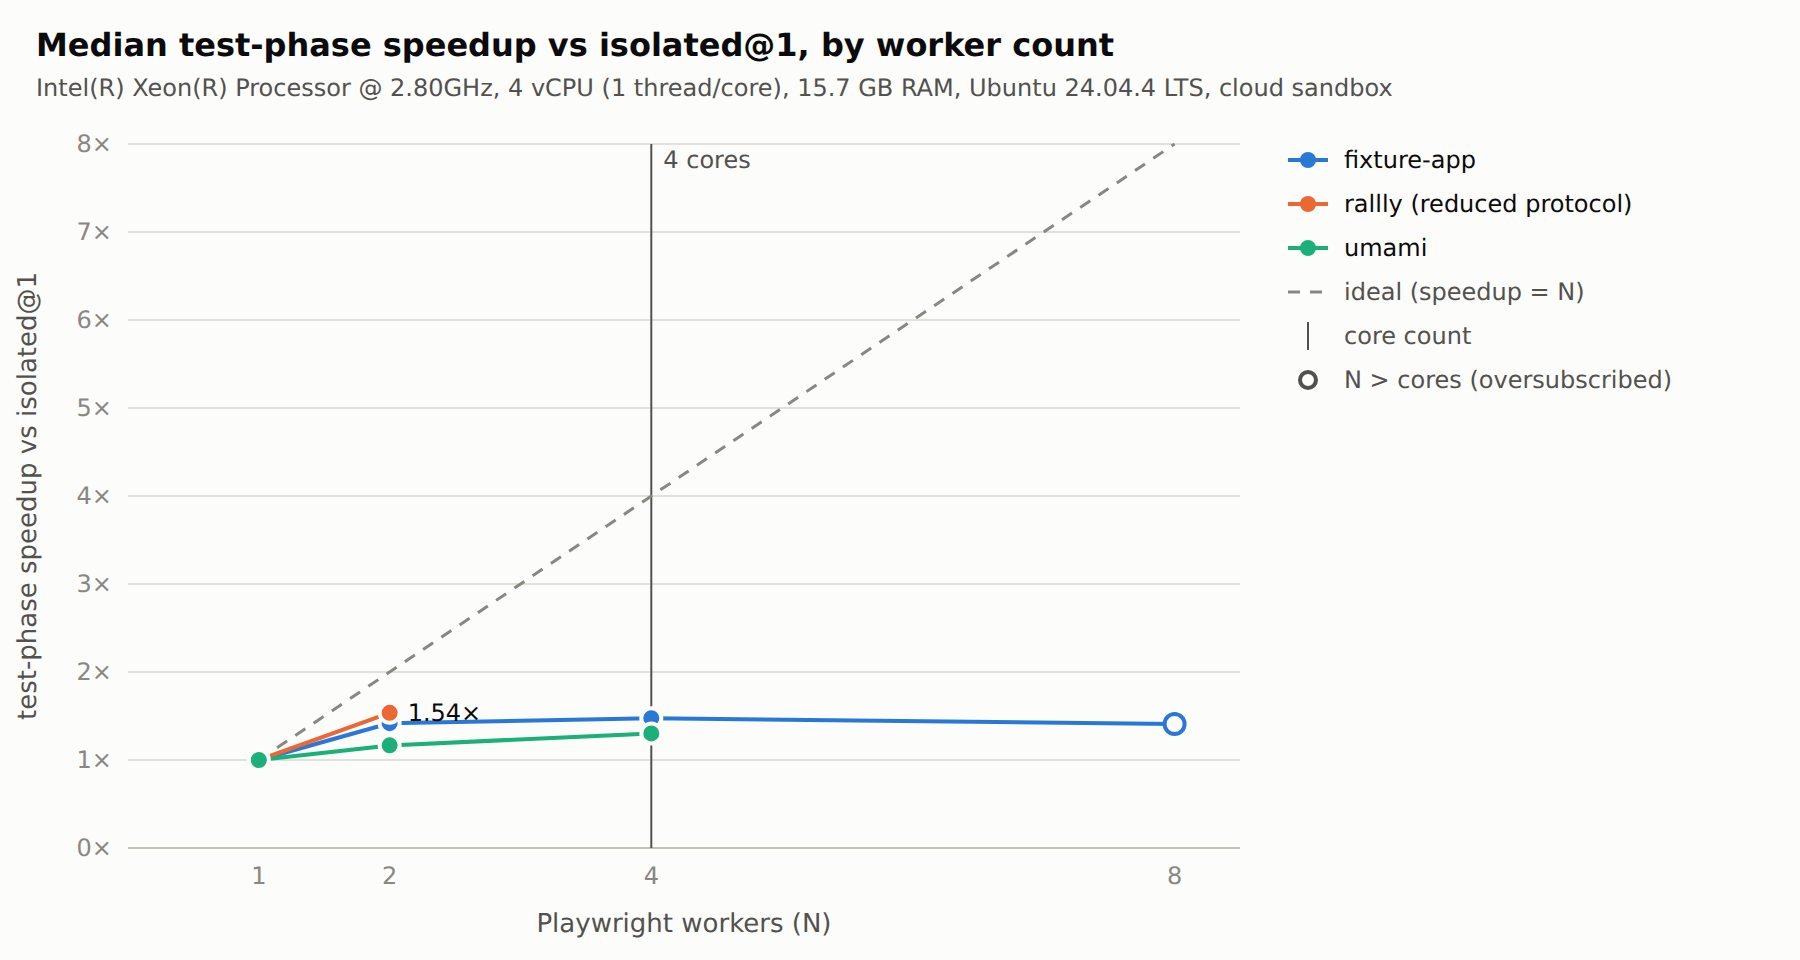
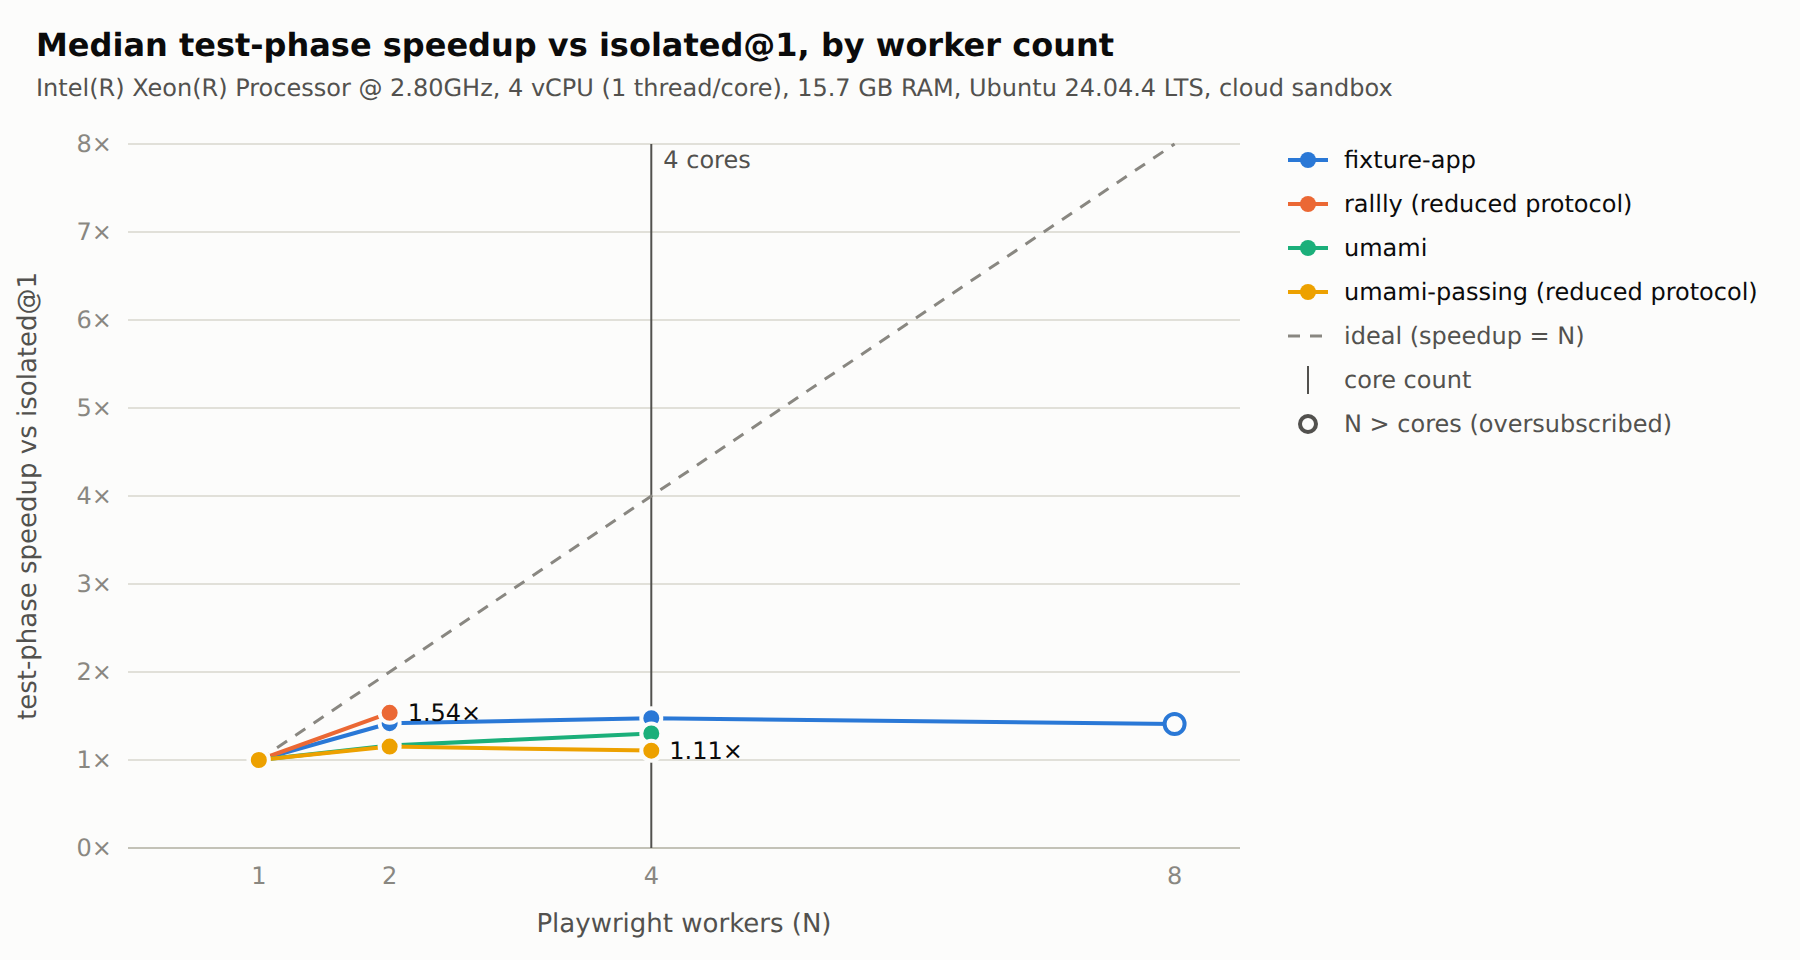
docs: report umami's passing-subset re-timing as the verdict number

diff --git a/RESULTS.md b/RESULTS.md
@@ -9,7 +9,7 @@ Every number cites a committed file under `data/results/` or `experiments/recipe
   - rallly's runs share one mailpit.
   - umami's run reports also carry the "isolation incomplete" label. The tool's scan found ClickHouse, Kafka and Redis clients in its dependencies. umami uses them only when their URLs are set, and none were.
   - So, literally, no real repo qualifies.
-- **Most important number:** counting umami anyway (a post-hoc reading, logged in LOG.md at 17:04 UTC), its test-phase speedup at N=4 is **1.30x on the full browser suite**. _Its re-timing on the common passing subset, which the protocol requires because 7 stale tests wait out 30 s timeouts, is below._
+- **Most important number:** counting umami anyway (a post-hoc reading, logged in LOG.md at 17:04 UTC), its test-phase speedup at N=4 on the common passing subset, the re-timing the protocol requires, is **1.11x** (`data/results/umami-passing/`). On the full browser suite it is 1.30x, but 90 of that suite's 111 s of serial test time are three stale tests waiting out 30 s timeouts.
 - **Context, not verdict evidence:**
   - The fixture (never pooled): 1.48x at N=4.
   - rallly: 1.54x at N=2, which is 0.77 of the 2x possible at N=2.
@@ -104,10 +104,24 @@ Source: `data/results/fixture-app/experiment-a.json` (37 runs, all valid; every 
 | **isolated@4** | **100.3 s [100.2-101.3]** | **1.30** | 1.23 | 4.00 | 113.3 s |
 
 - **Zero isolation failures.** The same 7 stale tests (tests CI does not run and that no longer match the app) fail in every arm, the baseline included, and pass in none. Every other test passes in every run.
-- **The ceiling is file granularity, not CPU.** `tests/e2e/website.spec.ts` holds 3 serial tests that take 90 of the 111 s summed test time, so no worker count can beat about 1.23x without splitting that file. The measured 1.30x is slightly above that ceiling because the long file ran a little faster at N=4 than at N=1. One worker slot uses only 0.59 cores.
+- **The full-suite number mostly measures stale tests timing out.** `tests/e2e/website.spec.ts` holds 3 of the 7 stale tests; each waits out Playwright's 30 s timeout, so the file takes 90 of the 111 s summed test time in every arm, and the 7 stale failures take about 104 s (93%). The measured 1.30x is above the 1.23x file ceiling because the N=1 test phase (130.6 s) includes about 20 s outside test durations, not because the file ran faster: it took 90.2 s at both N=1 and N=4. This is why the protocol's re-timing on the passing subset (below) is the number that counts. One worker slot uses only 0.59 cores.
 - **Harness effect 1.006.** Against the repo's own serial run: 1.31x in the test phase and 1.26x end to end.
-- **Setup is small.** Hooks and fixtures are 10% of test time; the pre-test phase is 3-6% of Playwright's wall time.
+- **Setup share.** Hooks and fixtures are 10% of summed test time, but only because stale-test timeouts fill the denominator. The pre-test phase is 3-6% of Playwright's wall time.
 - **Memory at N=4:** 2.2 GB peak. Each Next.js server takes 420-490 MB; Postgres takes 435 MB as an upper bound.
+
+**umami, re-timed on the common passing subset** (PLAN §5 step 5; recipe `umami-passing`). This covers the 4 spec files whose 23 tests passed in every baseline@1 round: 20 request-level API tests and 3 UI tests in `session-modal-dismiss.spec.ts`. Source: `data/results/umami-passing/experiment-a.json` (21 runs, all valid).
+
+| Arm | Median test phase [min-max] | Speedup vs isolated@1 | Scheduling ceiling | Resource ceiling | Median end-to-end |
+|---|---:|---:|---:|---:|---:|
+| baseline@1 | 8.08 s [7.95-8.19] | — | | | 18.0 s |
+| isolated@1 | 8.54 s [8.48-9.09] | 1.00 | 1.00 | 1.00 | 18.4 s |
+| isolated@2 | 7.41 s [7.26-7.56] | 1.15 | 1.15 | 1.52 | 17.1 s |
+| **isolated@4** | **7.72 s [7.55-8.07]** | **1.11** | 1.15 | 1.52 | 19.0 s |
+
+- Zero isolation failures. The ceiling is again file layout: the 3 UI tests in one file take 5.8 of the 6.7 s serial sum.
+- **End to end, N=4 is slower than the repo's own serial run** (0.94x): booting four Next.js servers costs more than the test phase saves.
+- Hooks and fixtures take as long as test bodies here (setup share 1.03).
+- Harness effect 0.95.
 
 **umami API suite** (271 request-level tests; no browser; onboarding runs, not the timed protocol). Source: `data/results/umami-api/onboarding/`.
 - With a plain config it passes 271/271 at N=1, but 75 tests differ from baseline at N=2 and 139 at N=4. The cause is **shared setup state outside the database**: the suite's `globalSetup` runs once in Playwright's main process, seeds only worker 0's app over HTTP, and writes `seed.json`/`openapi.json` under a host-keyed directory. The other workers fail with ENOENT.

diff --git a/README.md b/README.md
@@ -6,7 +6,7 @@ Most end-to-end suites run with `workers: 1` because every worker would share on
 
 It also has a tracing mode that records which server and client files each test executed, and an `affected` command that turns a diff into the list of tests to run.
 
-This repository also holds a research sprint that measured whether either idea works on real repositories. **Short version:** isolation works with no test edits (zero new failures on the fixture and on umami; rallly also needed two extras, listed in RESULTS.md), but on a 4-core machine the test phase got 1.3-1.6x faster, not close to N×. The limits were file-level scheduling and about 2 cores per worker slot. The impact map missed no tests in the small samples we could score, but it selected almost every test for the typical changed file. Details, and every repo that could not run, are in [RESULTS.md](RESULTS.md).
+This repository also holds a research sprint that measured whether either idea works on real repositories. **Short version:** isolation works with no test edits (zero new failures on the fixture and on umami; rallly also needed two extras, listed in RESULTS.md), but on a 4-core machine the test phase got 1.1-1.6x faster, not close to N×. The limits were file-level scheduling and about 2 cores per worker slot. The impact map missed no tests in the small samples we could score, but it selected almost every test for the typical changed file. Details, and every repo that could not run, are in [RESULTS.md](RESULTS.md).
 
 ## 30-second quickstart
 

diff --git a/reviews/results.md b/reviews/results.md
@@ -32,7 +32,7 @@ Three independent hostile reviewers read RESULTS.md against the raw data (`data/
 
 ## The weakest number
 
-**umami's 1.30x on the full browser suite**, the only real-repo N=4 number that passed the validity checks. It is dominated by stale tests timing out. Its replacement, the passing-subset re-timing, rests on 23 tests in 4 files: 21 are request-level API tests and 3 are UI tests in one file. It is therefore a weak test of browser-heavy isolation too. Claim A's evidence on real repos is thin, and the report says so.
+**umami's 1.30x on the full browser suite**, the only real-repo N=4 number that passed the validity checks. It is dominated by stale tests timing out. Its replacement, the passing-subset re-timing (1.11x), rests on 23 tests in 4 files: 20 are request-level API tests and 3 are UI tests in one file. It is therefore a weak test of browser-heavy isolation too. Claim A's evidence on real repos is thin, and the report says so.
 
 ## What the report still does not do
 

diff --git a/data/results/summary.md b/data/results/summary.md
@@ -10,6 +10,7 @@ timed runs; each repo's JSON has the definitions, the raw runs and every exclude
 | fixture-app | 6.4 s | 1 | 4.5 s (N=4) | 1.48× | 0 | 28% | 0.98 | full protocol; 0 timed run(s) excluded; 0 started at load ≥ 1.0 |
 | rallly | 134.8 s | 1 | 91.0 s (N=2) | n/a | 5 | 25% | 0.97 | reduced protocol; 6 timed run(s) excluded; 0 started at load ≥ 1.0; skipped isolated@8 |
 | umami | 129.9 s | 1 | 100.3 s (N=4) | 1.30× | 0 | 10% | 1.01 | full protocol; 0 timed run(s) excluded; 0 started at load ≥ 1.0; skipped isolated@8 |
+| umami-passing | 8.5 s | 1 | 7.4 s (N=2) | 1.11× | 0 | 103% | 0.95 | reduced protocol; 0 timed run(s) excluded; 0 started at load ≥ 1.0; skipped isolated@8 |
 
 ## Experiment B: impact map
 
